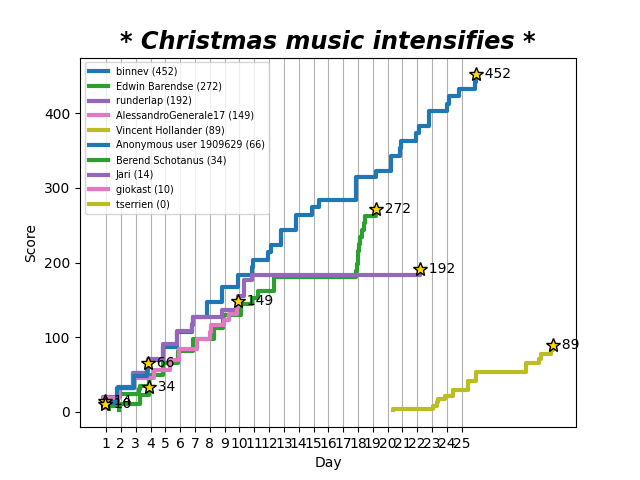
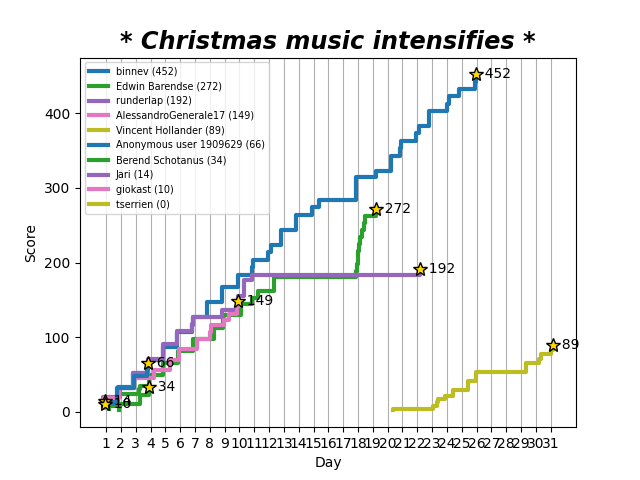
new leaderboard

Changed region(s): [[0.7188, 0.9062, 0.875, 0.9375]]

diff --git a/python/_2022/stats/leaderboard.py b/python/_2022/stats/leaderboard.py
@@ -68,7 +68,6 @@ def calc_scores(data: dict) -> dict:
     # who has finished it and who hasn't.
     for day in range(1, 26):
         for part in range(1, 3):
-            # label = f"{day}.{part}"
             scores = day_part_score(data, day=day, part=part)
             for id, score_data in scores.items():
                 member = data[id]
@@ -81,7 +80,7 @@ def plot_results(data: dict):
     fig, ax = plt.subplots()
     ax: Axes
     ax.ticklabel_format(useOffset=False, style="plain")
-    days = [datetime.datetime(2022, 12, x, 6, 0, 0) for x in range(1, 26)]
+    days = [datetime.datetime(2022, 12, x, 6, 0, 0) for x in range(1, 32)]
     timestamps = [d.timestamp() for d in days]
     ax.set_xticks(timestamps)
     ax.set_xticklabels(x.day for x in days)
